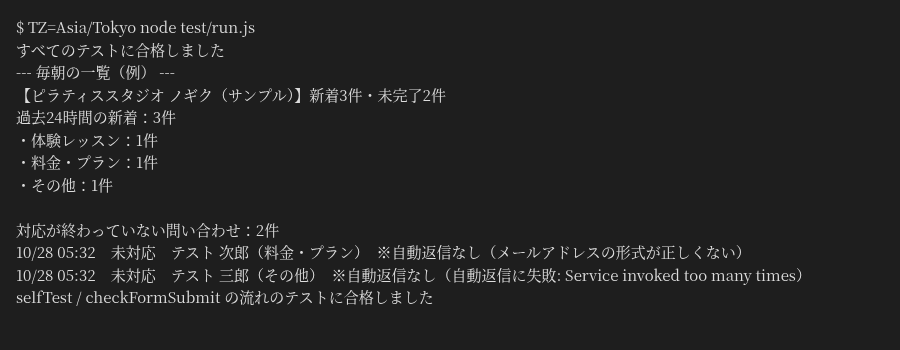
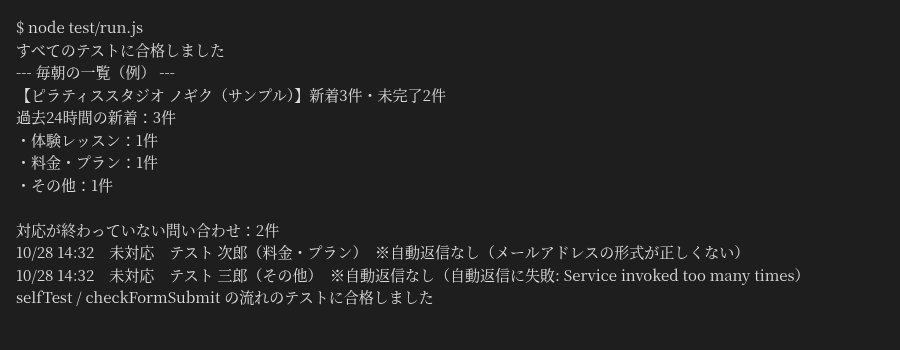
テスト: Utilities.formatDate の偽物を追加し、画像を日本時間で再生成

Changed region(s): [[0.0622, 0.6857, 0.84, 0.7429], [0.0622, 0.7714, 0.9022, 0.8286], [0.0311, 0.0571, 0.28, 0.1143]]

diff --git a/test/fake_utilities.js b/test/fake_utilities.js
@@ -1,0 +1,13 @@
+// Utilities.formatDate の偽物（テスト用）。指定のタイムゾーンで日時を書式にする。
+// 対応する書式: yyyy MM dd HH mm ss（Code.gs が使う 'MM/dd HH:mm' を含む）
+global.Utilities = {
+  formatDate(date, timeZone, format) {
+    const parts = {};
+    new Intl.DateTimeFormat('en-US', {
+      timeZone, hourCycle: 'h23', year: 'numeric', month: '2-digit', day: '2-digit',
+      hour: '2-digit', minute: '2-digit', second: '2-digit',
+    }).formatToParts(date).forEach(p => { parts[p.type] = p.value; });
+    const map = { yyyy: parts.year, MM: parts.month, dd: parts.day, HH: parts.hour, mm: parts.minute, ss: parts.second };
+    return format.replace(/yyyy|MM|dd|HH|mm|ss/g, t => map[t]);
+  },
+};

diff --git a/test/gas_flow_test.js b/test/gas_flow_test.js
@@ -1,4 +1,5 @@
 // selfTest() と checkFormSubmit() の流れを、Google のサービスの偽物で Node 上で通す。
+require('./fake_utilities.js');
 // 本物の Google での動きは確かめられない（トリガーが実際に動くか、権限の画面など）。
 // 実行: node test/gas_flow_test.js
 const assert = require('assert');

diff --git a/test/local_test.js b/test/local_test.js
@@ -1,4 +1,5 @@
 // Google のサービスを簡単な偽物に置き換えて、Code.gs の処理を Node で確かめる。
+require('./fake_utilities.js');
 // 実行: node test/local_test.js
 const assert = require('assert');
 const fs = require('fs');

diff --git a/README.md b/README.md
@@ -25,6 +25,7 @@
 | `appsscript.json` | タイムゾーン（Asia/Tokyo）、V8 ランタイム、必要な権限 |
 | `test/local_test.js` | Google のサービスを簡単な偽物に置き換えて、Node.js で処理を確かめるテスト |
 | `test/gas_flow_test.js` | 同じく偽物を使って、`selfTest()` と `checkFormSubmit()` の流れを確かめるテスト |
+| `test/fake_utilities.js` | テスト用の `Utilities.formatDate` の偽物。指定のタイムゾーンで日時を表示する |
 
 ## 主な関数
 
